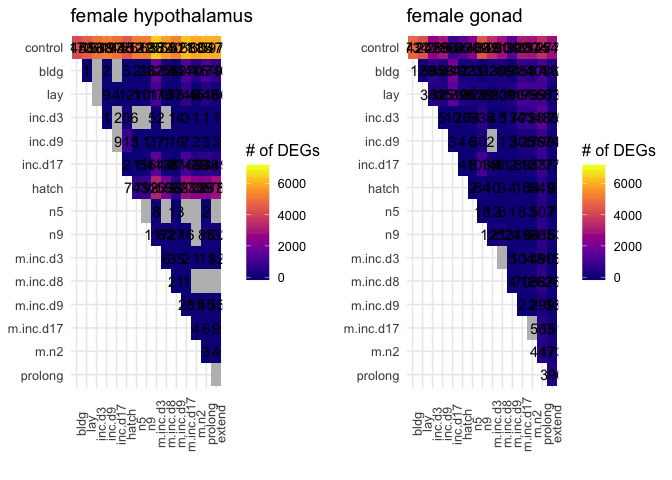
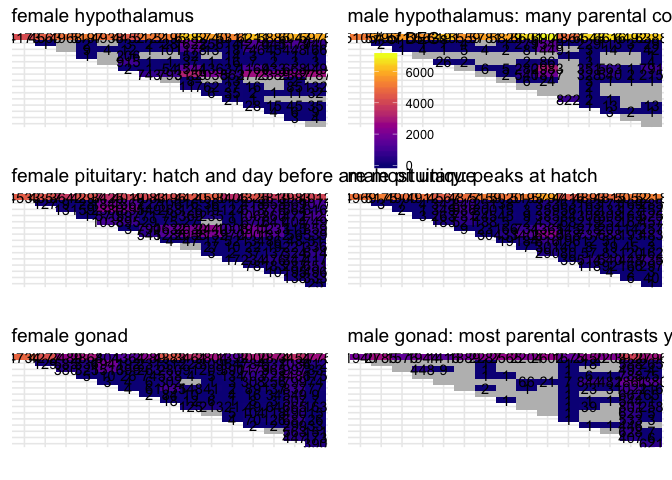
now with bar plots

diff --git a/analysis/04_DESeq2_sexes.md b/analysis/04_DESeq2_sexes.md
@@ -5,10 +5,10 @@
     library(pheatmap)
     library(kableExtra)
     library(viridis)
+    library(forcats)
 
     library("BiocParallel")
     register(MulticoreParam(4))
-
 
     source("../R/functions.R")  # load custom functions 
     source("../R/themes.R")  # load custom themes and color palletes
@@ -1797,7 +1797,7 @@ Calculate and plot total DEGs
     ## m.n2.extend             m.n2    extend    6
     ## prolong.extend       prolong    extend  621
 
-    a <- plottotalDEGs(DEGs.female_hypothalamus, "female hypothalamus: hatch is most unique parental stage")
+    a <- plottotalDEGs(DEGs.female_hypothalamus, "female hypothalamus")
 
     ## 'data.frame':    120 obs. of  3 variables:
     ##  $ V1: Factor w/ 16 levels "extend","prolong",..: 16 16 16 16 16 16 16 16 16 16 ...
@@ -2063,7 +2063,7 @@ Calculate and plot total DEGs
 
 ![](../figures/sexes/plottotalDEGs-2.png)
 
-    c <- plottotalDEGs(DEGs.female_gonad, "female gonad: variable across all parental stages")
+    c <- plottotalDEGs(DEGs.female_gonad, "female gonad")
 
     ## 'data.frame':    120 obs. of  3 variables:
     ##  $ V1: Factor w/ 16 levels "extend","prolong",..: 16 16 16 16 16 16 16 16 16 16 ...
@@ -2622,6 +2622,28 @@ Calculate and plot total DEGs
     ## quartz_off_screen 
     ##                 2
 
+Plot only a subset of DEGs that relate to hypotheses
+----------------------------------------------------
+
+    g <- plotserialDEGs(DEGs.female_hypothalamus, "Female hypothalamus")
+    h <- plotserialDEGs(DEGs.female_pituitary, "Female pituitary")
+    i <- plotserialDEGs(DEGs.female_gonad, "Female gonad")
+    j <- plotserialDEGs(DEGs.male_hypothalamus, "Male hypothalamus")
+    k <- plotserialDEGs(DEGs.male_pituitary, "Male pituitary")
+    l <- plotserialDEGs(DEGs.male_gondad, "Male gonad")
+
+    mybarplots <- plot_grid(g, h , i , j ,k , l, nrow = 2) 
+    mybarplots
+
+![](../figures/sexes/totalDEGbarsplots-1.png)
+
+    pdf("../figures/sexes/totalDEGbarsplots-1.pdf", width = 10, height = 6)
+    plot(mybarplots)
+    dev.off()
+
+    ## quartz_off_screen 
+    ##                 2
+
 Calculate and plot principal components
 ---------------------------------------
 
@@ -2838,18 +2860,8 @@ heamap with minimum pvalue
     makepheatmap(dds.male_pituitary, "male pituitary")
     makepheatmap(dds.male_gondad, "male gonad")        
 
-candidate genes
----------------
-
-    plotcandidates(dds.female_hypothalamus, a.colData, "female hypothalamus")
-    plotcandidates(dds.female_pituitary, "female pituitary")
-    plotcandidates(dds.female_gonad, "female gonad")
-    plotcandidates(dds.male_hypothalamus, "male hypothalamus")
-    plotcandidates(dds.male_pituitary, "male pituitary")
-    plotcandidates(dds.male_gondad, "male gonad")
-
-new heat maps
--------------
+make col data for candidate genes and heatmaps
+----------------------------------------------
 
     colData.female_hypothalamus <- subsetcolData(a.colData,  "female_hypothalamus")
     colData.female_pituitary <- subsetcolData(a.colData,  "female_pituitary" )
@@ -2858,26 +2870,22 @@ new heat maps
     colData.male_pituitary <- subsetcolData(a.colData,  "male_pituitary"  )
     colData.male_gondad <- subsetcolData(a.colData,  "male_gonad")
 
+candidate genes
+---------------
+
+    plotcandidates(dds.female_hypothalamus, colData.female_hypothalamus, "female hypothalamus")
+    plotcandidates(dds.female_pituitary, colData.female_pituitary,  "female pituitary")
+    plotcandidates(dds.female_gonad, colData.female_gonad,  "female gonad")
+    plotcandidates(dds.male_hypothalamus, colData.male_hypothalamus, "male hypothalamus")
+    plotcandidates(dds.male_pituitary,  colData.male_pituitary, "male pituitary")
+    plotcandidates(dds.male_gondad, colData.male_hypothalamus , "male gonad")
+
+new heat maps
+-------------
+
     plotcorrelationheatmaps(dds.female_hypothalamus, colData.female_hypothalamus ,"female hypothalamus: hatch, nest bldg., lay and day-before-hatch cluster")
-
-![](../figures/sexes/correlationheatmaps-1.png)
-
     plotcorrelationheatmaps(dds.female_pituitary, colData.female_pituitary, "female pituitary: clustering suggests an internal clock effect")
-
-![](../figures/sexes/correlationheatmaps-2.png)
-
     plotcorrelationheatmaps(dds.female_gonad, colData.female_gonad,  "female gonad: highly correlated across incubation and early nestling care")
-
-![](../figures/sexes/correlationheatmaps-3.png)
-
     plotcorrelationheatmaps(dds.male_hypothalamus, colData.male_hypothalamus, "male hypothalamus: 100% correlated across most parental care stages")
-
-![](../figures/sexes/correlationheatmaps-4.png)
-
     plotcorrelationheatmaps(dds.male_pituitary, colData.male_pituitary, "male pituitary: non-parental males are most different")
-
-![](../figures/sexes/correlationheatmaps-5.png)
-
     plotcorrelationheatmaps(dds.male_gondad, colData.male_gondad, "male gonad: non-parental males are most different")
-
-![](../figures/sexes/correlationheatmaps-6.png)
